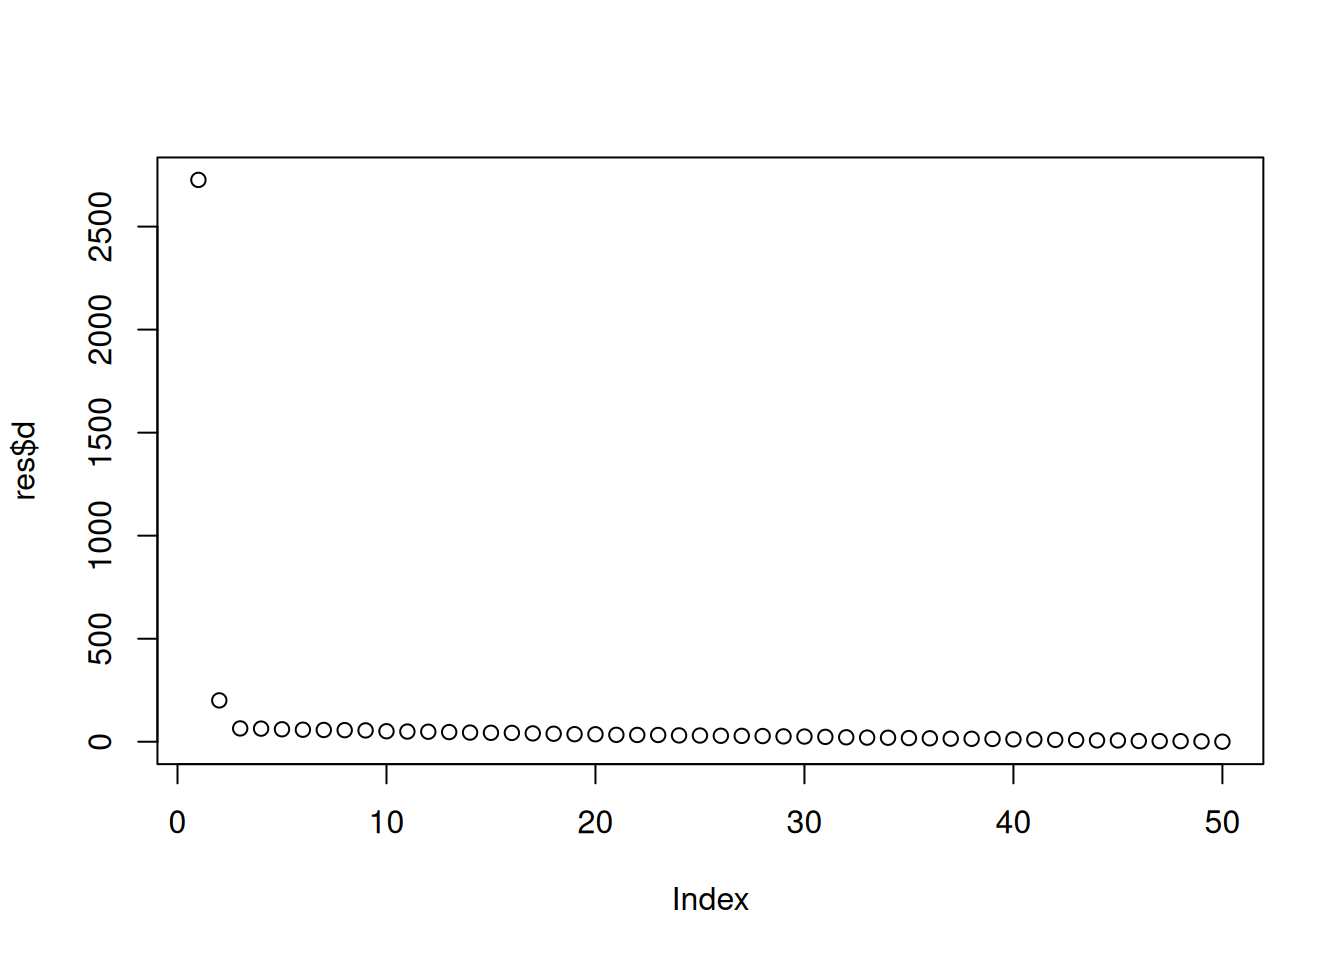
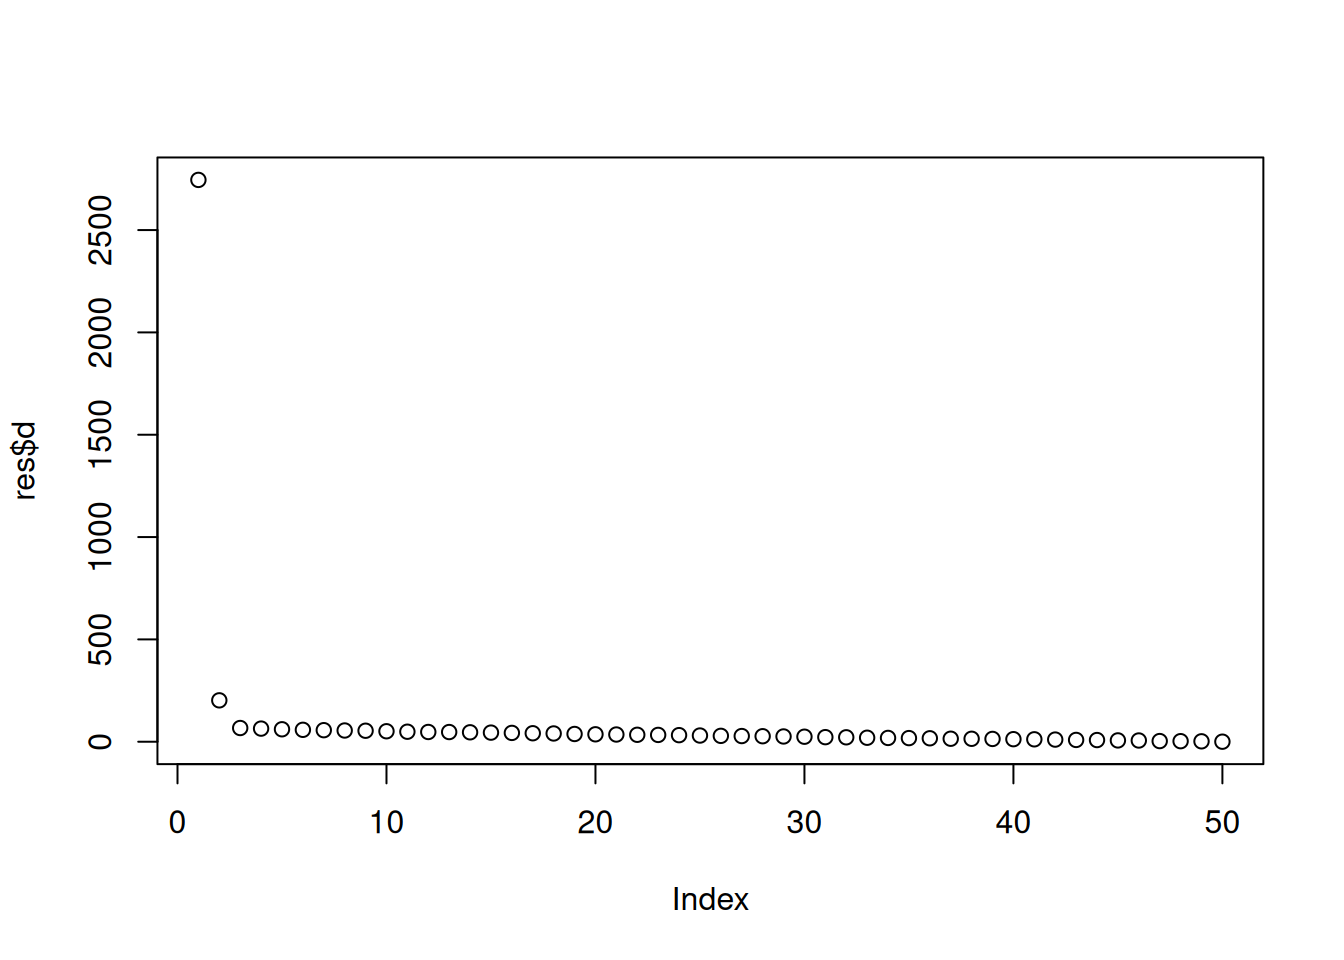
practicas mcp

diff --git a/MCP/EjemploLibroQuarto/Practica2.html b/MCP/EjemploLibroQuarto/Practica2.html
@@ -6,6 +6,7 @@
 
 <meta name="viewport" content="width=device-width, initial-scale=1.0, user-scalable=yes">
 
+<meta name="author" content="Miguel Adrian Gheorghe">
 
 <title>Práctica2</title>
 <style>
@@ -118,6 +119,12 @@ window.Quarto = {
 
 <div class="quarto-title-meta">
 
+    <div>
+    <div class="quarto-title-meta-heading">Author</div>
+    <div class="quarto-title-meta-contents">
+             <p>Miguel Adrian Gheorghe </p>
+          </div>
+  </div>
     
   
     
@@ -254,12 +261,12 @@ window.Quarto = {
 <span id="cb11-2"><a href="#cb11-2" aria-hidden="true" tabindex="-1"></a>A_ruido[<span class="fl">1.</span><span class="sc">:</span><span class="dv">5</span>, <span class="dv">1</span><span class="sc">:</span><span class="dv">5</span>]</span></code></pre></div><button title="Copy to Clipboard" class="code-copy-button"><i class="bi"></i></button></div>
 <div class="cell-output cell-output-stdout">
 <pre><code>5 x 5 Matrix of class "dgeMatrix"
-         [,1]     [,2]      [,3]      [,4]      [,5]
-[1,] 1.143925 2.308566  4.524835 -1.857185  2.468263
-[2,] 4.528320 9.242343 -4.825673  4.606781  4.082810
-[3,] 8.928637 9.861888  3.113547  7.466789  7.067424
-[4,] 3.438650 3.588963 14.070309 -1.515454  4.699788
-[5,] 6.610683 7.077903  2.923273  7.680918 12.626645</code></pre>
+           [,1]      [,2]      [,3]      [,4]       [,5]
+[1,] -5.1774842 -1.498523 10.872041  2.452654 -0.2473112
+[2,] -2.0581670  1.257955  2.310325  8.419077  5.3962126
+[3,]  3.3212334  6.864901  5.161267 10.426980  2.6031923
+[4,]  8.1662562 18.909583  0.799646 -3.501441 13.0807706
+[5,]  0.4031502  4.819362  1.928229  8.334553  4.3940126</code></pre>
 </div>
 </div>
 </section>
@@ -269,16 +276,16 @@ window.Quarto = {
 <div class="code-copy-outer-scaffold"><div class="sourceCode cell-code" id="cb13"><pre class="sourceCode r code-with-copy"><code class="sourceCode r"><span id="cb13-1"><a href="#cb13-1" aria-hidden="true" tabindex="-1"></a>res <span class="ot">=</span> <span class="fu">svd</span>(A_ruido) <span class="co"># Aplicamos SVD</span></span>
 <span id="cb13-2"><a href="#cb13-2" aria-hidden="true" tabindex="-1"></a><span class="fu">print</span>(res<span class="sc">$</span>d) <span class="co"># Valores de la diagonal</span></span></code></pre></div><button title="Copy to Clipboard" class="code-copy-button"><i class="bi"></i></button></div>
 <div class="cell-output cell-output-stdout">
-<pre><code> [1] 2726.4427811  200.6673833   64.5989469   63.6367247   60.5278863
- [6]   58.4061632   57.1283748   56.2702249   55.0045320   50.9824481
-[11]   49.4888458   48.6129410   46.9457219   44.5879462   43.4424188
-[16]   43.0053583   40.5855261   38.8831542   36.7300864   36.2727060
-[21]   33.5590001   32.9258911   32.8520599   30.7575616   30.2248484
-[26]   28.9733854   28.4976066   27.6710755   26.1080975   25.2829625
-[31]   23.6459222   21.5801970   20.1525177   19.4659763   17.7457341
-[36]   16.7415702   14.8991994   14.3597567   13.5019782   11.5916590
-[41]   10.6655551    9.1873743    8.3507982    6.6185586    6.3437853
-[46]    3.7419451    3.1376354    2.8593802    1.6715812    0.2650649</code></pre>
+<pre><code> [1] 2745.1257626  202.1336999   66.9051172   64.0552654   60.7645453
+ [6]   58.1182263   56.3716360   54.8142100   53.6441873   51.0772195
+[11]   48.8424313   47.5313244   47.2539993   45.9890042   44.4623765
+[16]   43.0139556   41.3793704   40.2790098   37.7608268   36.1959114
+[21]   35.1834280   33.8448181   33.1982677   32.0604328   30.1965096
+[26]   28.6359834   27.6628507   26.8107630   25.6377421   24.4319445
+[31]   22.2758577   21.5172259   19.4483316   18.4720131   17.6632372
+[36]   16.7422939   14.5732876   14.3036569   13.5615113   12.4108782
+[41]   11.7140862   10.4066958    8.6669083    8.1050468    6.3612895
+[46]    5.9627678    3.1439000    2.6118272    1.8626484    0.1129907</code></pre>
 </div>
 <div class="code-copy-outer-scaffold"><div class="sourceCode cell-code" id="cb15"><pre class="sourceCode r code-with-copy"><code class="sourceCode r"><span id="cb15-1"><a href="#cb15-1" aria-hidden="true" tabindex="-1"></a><span class="fu">plot</span>(res<span class="sc">$</span>d)</span></code></pre></div><button title="Copy to Clipboard" class="code-copy-button"><i class="bi"></i></button></div>
 <div class="cell-output-display">
@@ -298,12 +305,12 @@ window.Quarto = {
 <div class="code-copy-outer-scaffold"><div class="sourceCode cell-code" id="cb16"><pre class="sourceCode r code-with-copy"><code class="sourceCode r"><span id="cb16-1"><a href="#cb16-1" aria-hidden="true" tabindex="-1"></a>A_rec <span class="ot">&lt;-</span> res<span class="sc">$</span>u[, <span class="dv">1</span><span class="sc">:</span><span class="dv">2</span>, drop <span class="ot">=</span> <span class="cn">FALSE</span>] <span class="sc">%*%</span> <span class="fu">diag</span>(res<span class="sc">$</span>d[<span class="dv">1</span><span class="sc">:</span><span class="dv">2</span>]) <span class="sc">%*%</span> <span class="fu">t</span>(res<span class="sc">$</span>v[, <span class="dv">1</span><span class="sc">:</span><span class="dv">2</span>, <span class="at">drop =</span> <span class="cn">FALSE</span>])</span>
 <span id="cb16-2"><a href="#cb16-2" aria-hidden="true" tabindex="-1"></a><span class="fu">print</span>(A_rec[<span class="dv">1</span><span class="sc">:</span><span class="dv">5</span>, <span class="dv">1</span><span class="sc">:</span><span class="dv">5</span>])</span></code></pre></div><button title="Copy to Clipboard" class="code-copy-button"><i class="bi"></i></button></div>
 <div class="cell-output cell-output-stdout">
-<pre><code>          [,1]     [,2]     [,3]     [,4]     [,5]
-[1,] 0.5898041 2.274084 2.606468 2.119655 2.459052
-[2,] 2.2780713 3.912196 4.378067 3.851547 4.210664
-[3,] 5.4301445 6.757610 7.436939 6.895485 7.249799
-[4,] 4.3745538 5.945053 6.576462 6.001008 6.384351
-[5,] 4.7750078 6.288919 6.944486 6.372035 6.751322</code></pre>
+<pre><code>           [,1]     [,2]      [,3]     [,4]     [,5]
+[1,] -3.9180180 3.766910 0.8338319 3.000652 3.017079
+[2,] -3.0556083 4.413077 1.6034018 3.718135 3.770614
+[3,]  1.3344028 7.826708 5.6011776 7.486588 7.725926
+[4,]  2.2326916 8.359697 6.3122803 8.103103 8.376226
+[5,] -0.0596003 7.209206 4.6330766 6.725638 6.918182</code></pre>
 </div>
 <div class="code-copy-outer-scaffold"><div class="sourceCode cell-code" id="cb18"><pre class="sourceCode r code-with-copy"><code class="sourceCode r"><span id="cb18-1"><a href="#cb18-1" aria-hidden="true" tabindex="-1"></a>error_original <span class="ot">&lt;-</span> <span class="fu">sqrt</span>(<span class="fu">sum</span>((A <span class="sc">-</span> A_rec)<span class="sc">^</span><span class="dv">2</span> <span class="sc">/</span> <span class="dv">2500</span>)) </span>
 <span id="cb18-2"><a href="#cb18-2" aria-hidden="true" tabindex="-1"></a>error_ruido <span class="ot">&lt;-</span> <span class="fu">sqrt</span>(<span class="fu">sum</span>((A_ruido <span class="sc">-</span> A_rec)<span class="sc">^</span><span class="dv">2</span> <span class="sc">/</span> <span class="dv">2500</span>))</span>
@@ -311,11 +318,11 @@ window.Quarto = {
 <span id="cb18-4"><a href="#cb18-4" aria-hidden="true" tabindex="-1"></a><span class="fu">cat</span>(<span class="st">"</span><span class="sc">\n</span><span class="st">Error respecto a la matriz original (usando RMSE): "</span>, error_original, <span class="st">"</span><span class="sc">\n</span><span class="st">"</span>)</span></code></pre></div><button title="Copy to Clipboard" class="code-copy-button"><i class="bi"></i></button></div>
 <div class="cell-output cell-output-stdout">
 <pre><code>
-Error respecto a la matriz original (usando RMSE):  1.440147 </code></pre>
+Error respecto a la matriz original (usando RMSE):  1.377472 </code></pre>
 </div>
 <div class="code-copy-outer-scaffold"><div class="sourceCode cell-code" id="cb20"><pre class="sourceCode r code-with-copy"><code class="sourceCode r"><span id="cb20-1"><a href="#cb20-1" aria-hidden="true" tabindex="-1"></a><span class="fu">cat</span>(<span class="st">"Error respecto a la matriz con ruido (usando RMSE): "</span>, error_ruido)</span></code></pre></div><button title="Copy to Clipboard" class="code-copy-button"><i class="bi"></i></button></div>
 <div class="cell-output cell-output-stdout">
-<pre><code>Error respecto a la matriz con ruido (usando RMSE):  4.830786</code></pre>
+<pre><code>Error respecto a la matriz con ruido (usando RMSE):  4.845647</code></pre>
 </div>
 </div>
 <p>Hemos usado la fórmula de la raíz del error cuadrático medio (RMSE). Podemos ver que el error respecto a la matriz original con ruido es de casi 5, que es la desviación típica del ruido que añadimos a la misma. Esto significa que SVD ha detectado el ruido de los datos, que si comparamos la matriz original con la ruidosa, la diferencia es el ruido.</p>

diff --git a/MCP/EjemploLibroQuarto/Practica3.html b/MCP/EjemploLibroQuarto/Practica3.html
@@ -6,6 +6,7 @@
 
 <meta name="viewport" content="width=device-width, initial-scale=1.0, user-scalable=yes">
 
+<meta name="author" content="Miguel Adrian Gheorghe">
 
 <title>Práctica3</title>
 <style>
@@ -118,6 +119,12 @@ window.Quarto = {
 
 <div class="quarto-title-meta">
 
+    <div>
+    <div class="quarto-title-meta-heading">Author</div>
+    <div class="quarto-title-meta-contents">
+             <p>Miguel Adrian Gheorghe </p>
+          </div>
+  </div>
     
   
     
